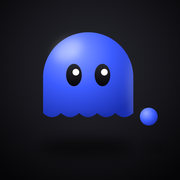
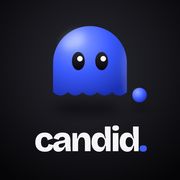
앱 아이콘: 스포트라이트 닷 아래에 candid. 글자(로고 글꼴) 추가, 캐시 갱신(?v=3)

Changed region(s): [[0.2222, 0.1389, 0.8889, 0.7222], [0.1944, 0.6944, 0.8333, 0.8611]]

diff --git a/index.html b/index.html
@@ -15,8 +15,8 @@
 <meta name="twitter:card" content="summary_large_image">
 <meta name="theme-color" content="#ffffff" media="(prefers-color-scheme: light)">
 <meta name="theme-color" content="#000000" media="(prefers-color-scheme: dark)">
-<link rel="icon" type="image/png" sizes="32x32" href="brand/icon-32.png?v=2">
-<link rel="apple-touch-icon" sizes="180x180" href="brand/icon-180.png?v=2">
+<link rel="icon" type="image/png" sizes="32x32" href="brand/icon-32.png?v=3">
+<link rel="apple-touch-icon" sizes="180x180" href="brand/icon-180.png?v=3">
 <link rel="manifest" href="manifest.json">
 <meta name="apple-mobile-web-app-capable" content="yes">
 <meta name="apple-mobile-web-app-title" content="candid.">
@@ -1342,7 +1342,7 @@ function renderLanding(inviter) {
         <h1><em>${esc(inviter.name)}</em>님이<br>초대했어요</h1>
         <p class="tagline">친구들이 내 피드를 채워주는 앱, candid.<br>앱을 설치하면 친구가 사진을 보낼 때 바로 알림이 와요.</p></div>
         <button class="btn primary block inv-install" onclick="installNow()">📲 앱 설치하고 시작하기</button>
-        <div class="inv-or">또는 웹에서 바로 시작</div>` : appFirst ? `<div class="hero app1"><img class="app1-ic" src="brand/icon-180.png?v=2" alt="">
+        <div class="inv-or">또는 웹에서 바로 시작</div>` : appFirst ? `<div class="hero app1"><img class="app1-ic" src="brand/icon-180.png?v=3" alt="">
         <h1>거의 다 됐어요<em>!</em></h1>
         <p class="tagline">홈 화면 앱은 브라우저와 로그인이 따로예요.<br>여기서 <b style="color:var(--fg)">한 번만</b> 다시 로그인해 주세요.</p></div>` : `
       <div class="hero">
@@ -2486,7 +2486,7 @@ function maybeShowInstall() {
   if (!kind || document.querySelector('.ibanner, .composer, .cmp-done')) return;
   try { if (sessionStorage.getItem('candid_install_closed')) return; } catch {} // 이번 방문에서 닫았으면 그만
   const b = document.createElement('div'); b.className = 'ibanner';
-  b.innerHTML = `<img src="brand/icon-180.png?v=2" alt="">
+  b.innerHTML = `<img src="brand/icon-180.png?v=3" alt="">
     <div><b>candid. 앱으로 쓰기</b><span>${kind === 'inapp' ? 'Safari·Chrome에서 열면 설치할 수 있어요' : '홈 화면에 추가하면 새 사진 알림도 받아요'}</span></div>
     <button class="btn primary">${kind === 'android' ? '설치' : kind === 'ios' ? '방법 보기' : '열기'}</button>
     <button class="ix" aria-label="닫기">${I.close}</button>`;
@@ -2699,7 +2699,7 @@ function showInstallGuide() {
     arrow = 'center';
   }
   el.innerHTML = `<button class="ig-x" aria-label="닫기">${I.close}</button>
-    <img class="ig-ic" src="brand/icon-180.png?v=2" alt="">
+    <img class="ig-ic" src="brand/icon-180.png?v=3" alt="">
     <h2>홈 화면에 추가하기</h2>
     <p>앱처럼 바로 열리고, 친구가 사진을 보내면 알림이 와요.</p>
     ${otherIOS ? `<button class="btn primary block" id="igsafari" style="margin-bottom:18px">Safari로 열기 (추천)</button><p class="ig-sub" style="margin:-8px 0 20px">안 열리면 아래 방법으로 여기서 바로 추가해도 돼요</p>` : ''}
